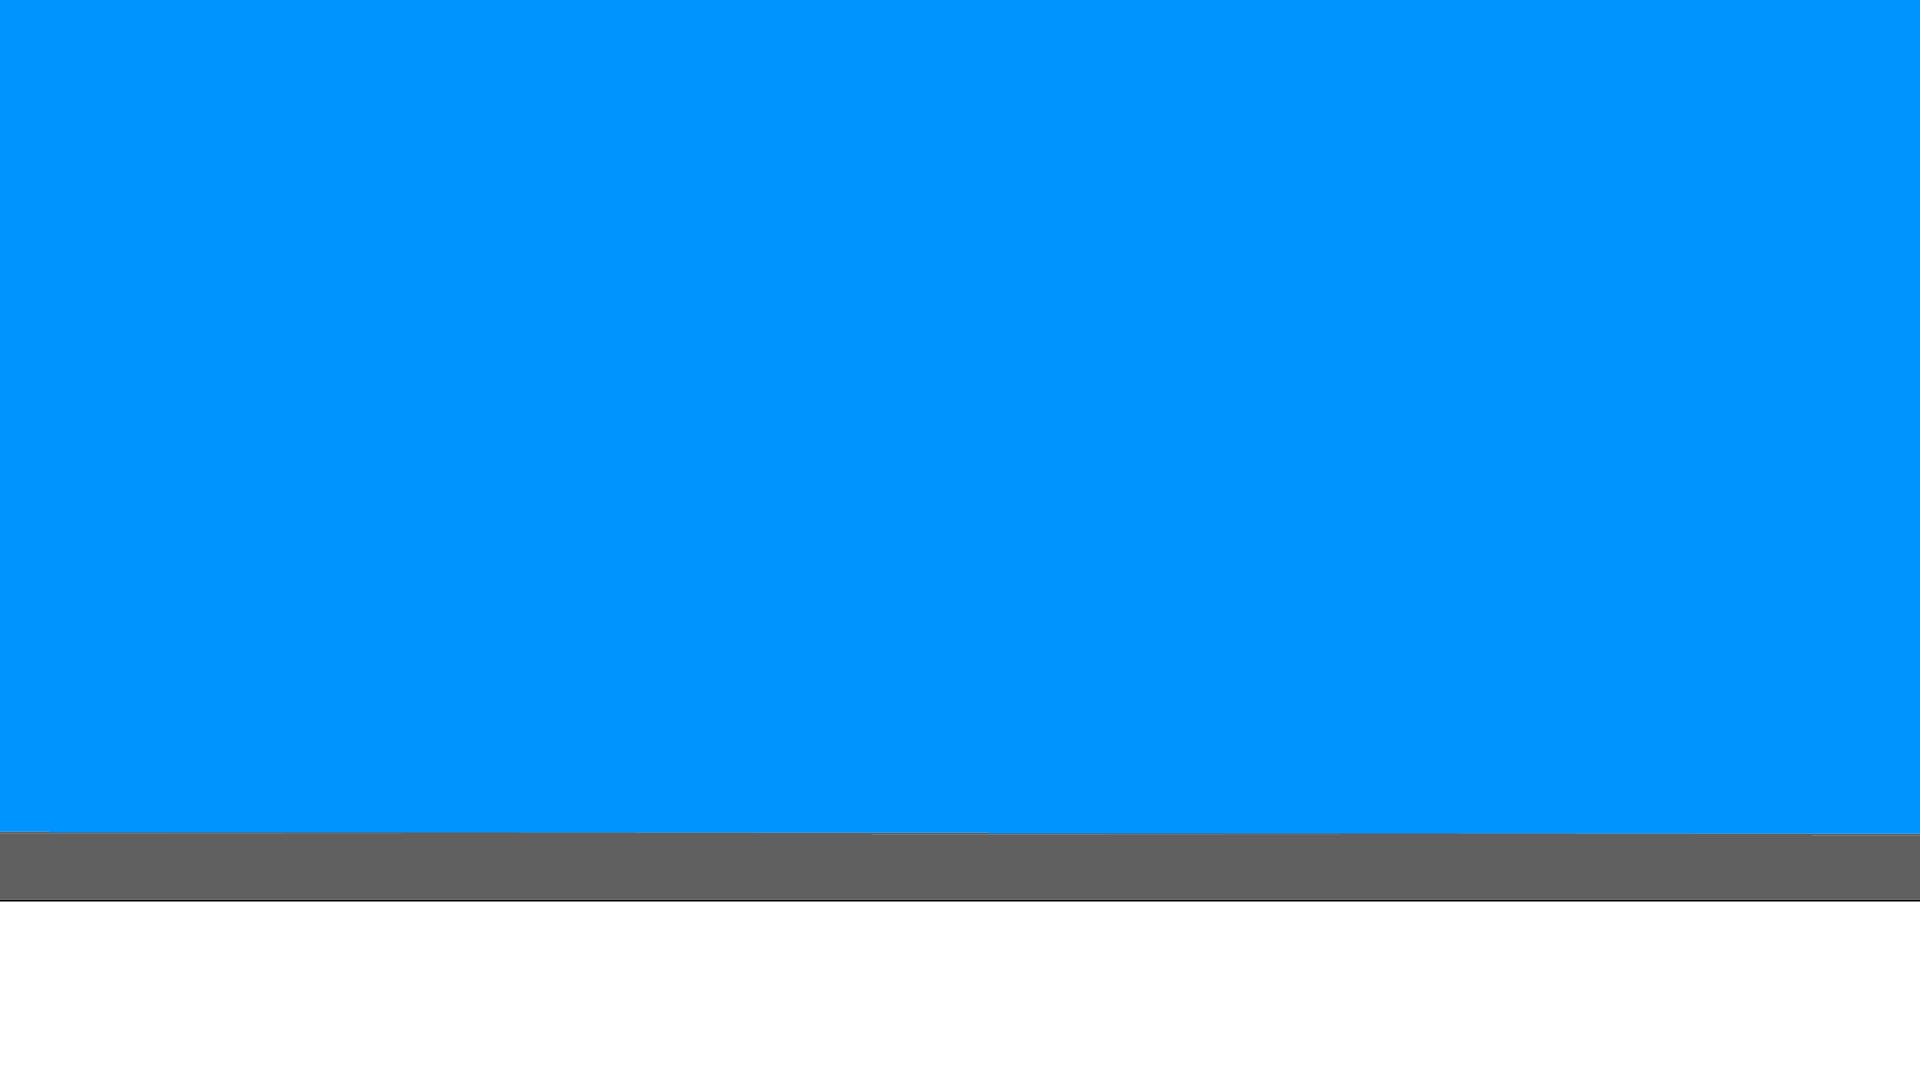
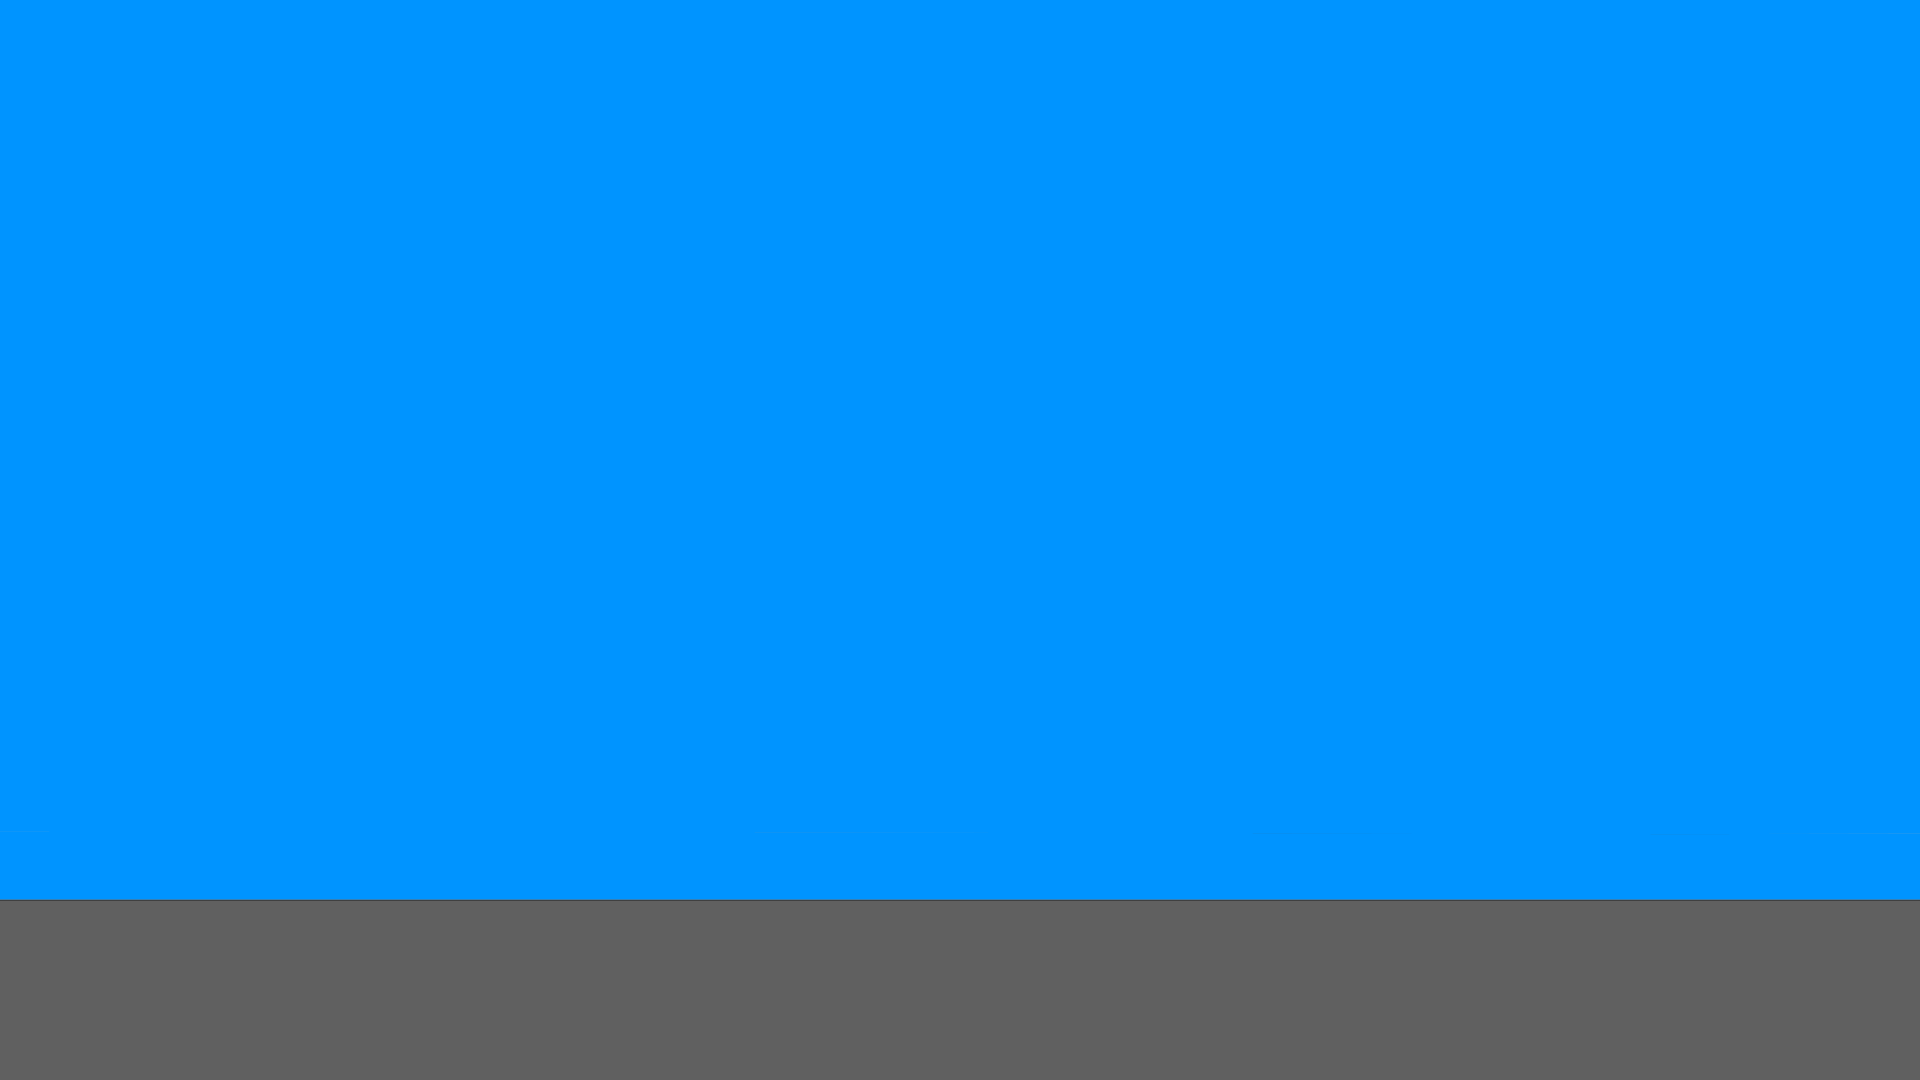
Outposts now scroll from right to left across the screen

Changed region(s): [[0.0, 0.7639, 1.0, 1.0]]

diff --git a/core/src/com/sopwithredux/gameobjects/Outpost.java b/core/src/com/sopwithredux/gameobjects/Outpost.java
@@ -1,0 +1,61 @@
+package com.sopwithredux.gameobjects;
+
+import com.badlogic.gdx.Gdx;
+import com.badlogic.gdx.graphics.Texture;
+import com.badlogic.gdx.math.Vector2;
+import com.sopwithredux.World;
+
+/**
+ * Created by Carl on 24/03/2017.
+ */
+public class Outpost extends CollidableObject
+{
+    private Vector2 startingPosition;
+    private boolean player1Outpost;
+
+    public Outpost(World world, Texture image, Vector2 position, Vector2 dimension, Vector2 sourceDimension,
+                      double speed, double angle, boolean isFlippedX, boolean isFlippedY, boolean player1Outpost)
+    {
+        super(world, image, position, dimension, sourceDimension, speed, angle, isFlippedX, isFlippedY);
+        this.player1Outpost = player1Outpost;
+        startingPosition = position;
+    }
+
+    @Override
+    public void update()
+    {
+        position.x -= speed * Gdx.graphics.getDeltaTime();
+
+        if(position.x < -dimension.x)
+        {
+            position = startingPosition;
+        }
+    }
+
+    @Override
+    public void resolveCollision(CollidableObject collidableObject)
+    {
+        if(player1Outpost)
+        {
+            //collidableObject.++outpostsDestroyed;
+        }
+        else
+        {
+            //++outpostsDestroyed;
+        }
+
+        //world.remove(this);
+    }
+
+    @Override
+    public void resolvePlaneCollision(Plane plane)
+    {
+
+    }
+
+    @Override
+    public void resolveBulletCollision(Bullet bullet)
+    {
+
+    }
+}

diff --git a/core/src/com/sopwithredux/World.java b/core/src/com/sopwithredux/World.java
@@ -77,6 +77,7 @@ public class World
     private void createGameObjects()
     {
         createClouds();
+        createOutposts();
         createPlanes();
     }
 
@@ -98,6 +99,31 @@ public class World
               new Vector2((float)randomWidth, (float)randomHeight),
               new Vector2(256.0f, 128.0f),
               randomSpeed, 0.0, false, false));
+        }
+    }
+
+    private void createOutposts()
+    {
+        Random rand = new Random();
+        double randomX;
+
+        for(int i = 0; i < 5; ++i)
+        {
+            randomX = rand.nextInt(Gdx.graphics.getWidth() * 4) + Gdx.graphics.getWidth();
+
+            activeGameObjects.add(new Outpost(this, assetManager.get("outpost1.png", Texture.class),
+              new Vector2((float)randomX, Gdx.graphics.getHeight() / 8),
+              new Vector2(Gdx.graphics.getWidth() / 20.0f, Gdx.graphics.getWidth() / 20.0f),
+              new Vector2(256.0f, 128.0f),
+              200.0, 0.0, false, false, true));
+
+            randomX = rand.nextInt(Gdx.graphics.getWidth() * 4) + Gdx.graphics.getWidth();
+
+            activeGameObjects.add(new Outpost(this, assetManager.get("outpost2.png", Texture.class),
+              new Vector2((float)randomX, Gdx.graphics.getHeight() / 8),
+              new Vector2(Gdx.graphics.getWidth() / 20.0f, Gdx.graphics.getWidth() / 20.0f),
+              new Vector2(256.0f, 128.0f),
+              200.0, 0.0, false, false, false));
         }
     }
 
